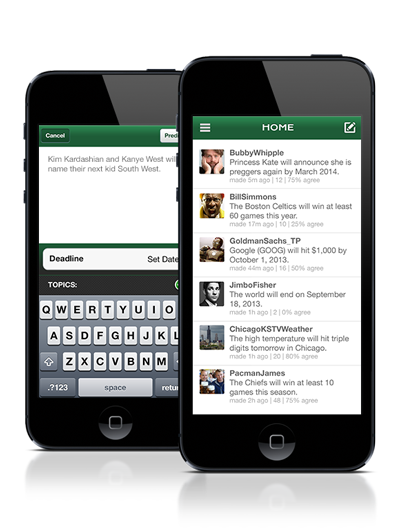
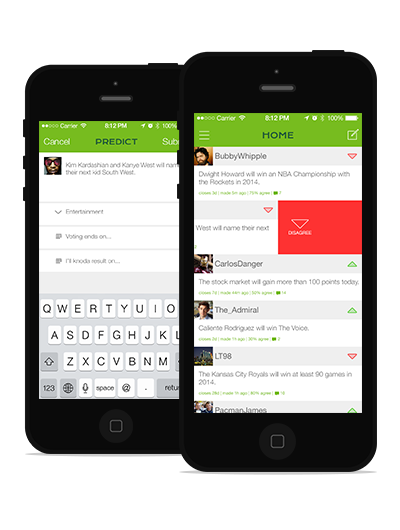
Improving prediction share page

diff --git a/app/assets/stylesheets/application.css b/app/assets/stylesheets/application.css
@@ -2,6 +2,9 @@
  *= require twitter/bootstrap
  */
 
+.knodaGreen {
+  color : #77BC1F;;
+}
  .navbar-default {
   background-color: #77BC1F;
  }

diff --git a/config/routes.rb b/config/routes.rb
@@ -1,63 +1,8 @@
 KnodaWeb::Application.routes.draw do
-
-  # The priority is based upon order of creation: first created -> highest priority.
-  # See how all your routes lay out with "rake routes".
-
-  # You can have the root of your site routed with "root"
   root 'home#index'
-
   get 'about' => 'home#about'
   get 'privacy' => 'home#privacy'
   get 'terms' => 'home#terms'
 
   get 'predictions/:id/share' => 'predictions#showShared'
-
-  # Example of regular route:
-  #   get 'products/:id' => 'catalog#view'
-
-  # Example of named route that can be invoked with purchase_url(id: product.id)
-  #   get 'products/:id/purchase' => 'catalog#purchase', as: :purchase
-
-  # Example resource route (maps HTTP verbs to controller actions automatically):
-  #   resources :products
-
-  # Example resource route with options:
-  #   resources :products do
-  #     member do
-  #       get 'short'
-  #       post 'toggle'
-  #     end
-  #
-  #     collection do
-  #       get 'sold'
-  #     end
-  #   end
-
-  # Example resource route with sub-resources:
-  #   resources :products do
-  #     resources :comments, :sales
-  #     resource :seller
-  #   end
-
-  # Example resource route with more complex sub-resources:
-  #   resources :products do
-  #     resources :comments
-  #     resources :sales do
-  #       get 'recent', on: :collection
-  #     end
-  #   end
-
-  # Example resource route with concerns:
-  #   concern :toggleable do
-  #     post 'toggle'
-  #   end
-  #   resources :posts, concerns: :toggleable
-  #   resources :photos, concerns: :toggleable
-
-  # Example resource route within a namespace:
-  #   namespace :admin do
-  #     # Directs /admin/products/* to Admin::ProductsController
-  #     # (app/controllers/admin/products_controller.rb)
-  #     resources :products
-  #   end
 end

diff --git a/app/models/prediction.rb b/app/models/prediction.rb
@@ -3,4 +3,16 @@ class Prediction < ActiveRecord::Base
   has_many :challenges, :dependent => :destroy
   has_many :voters, through: :challenges, class_name: "User", source: 'user'
   has_many :comments, :dependent => :destroy
+
+  def disagreed_count
+    self.challenges.find_all_by_agree(false).count
+  end
+
+  def agreed_count
+    self.challenges.find_all_by_agree(true).count
+  end
+
+  def agreePercent
+    ((self.challenges.find_all_by_agree(true).count / self.challenges.count) * 100).round
+  end
 end
